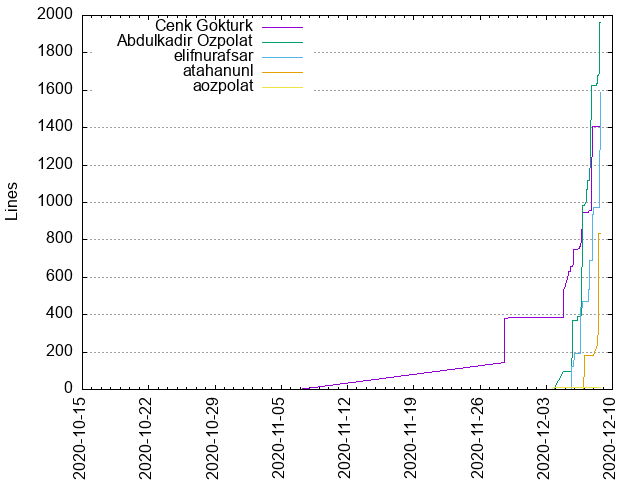
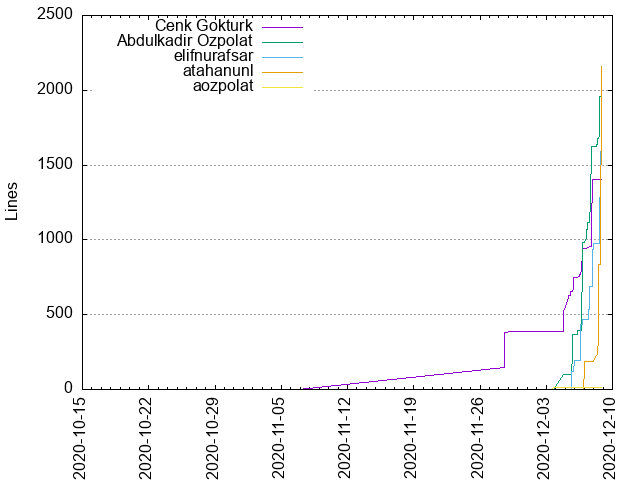
Gitstats results updated

diff --git a/Gitstats-Result/activity.html b/Gitstats-Result/activity.html
@@ -2,7 +2,7 @@
 <html>
 <head>
 	<meta charset="UTF-8">
-	<title>GitStats - Test</title>
+	<title>GitStats - Test2</title>
 	<link rel="stylesheet" href="gitstats.css" type="text/css">
 	<meta name="generator" content="GitStats 55c5c28">
 	<script type="text/javascript" src="sortable.js"></script>
@@ -22,27 +22,27 @@
 
 <h2 id="weekly_activity"><a href="#weekly_activity">Weekly activity</a></h2>
 
-<p>Last 32 weeks</p><table class="noborders"><tr><td style="text-align: center; vertical-align: bottom">0<div style="display: block; background-color: red; width: 20px; height: 1px"></div></td><td style="text-align: center; vertical-align: bottom">0<div style="display: block; background-color: red; width: 20px; height: 1px"></div></td><td style="text-align: center; vertical-align: bottom">0<div style="display: block; background-color: red; width: 20px; height: 1px"></div></td><td style="text-align: center; vertical-align: bottom">0<div style="display: block; background-color: red; width: 20px; height: 1px"></div></td><td style="text-align: center; vertical-align: bottom">0<div style="display: block; background-color: red; width: 20px; height: 1px"></div></td><td style="text-align: center; vertical-align: bottom">0<div style="display: block; background-color: red; width: 20px; height: 1px"></div></td><td style="text-align: center; vertical-align: bottom">0<div style="display: block; background-color: red; width: 20px; height: 1px"></div></td><td style="text-align: center; vertical-align: bottom">0<div style="display: block; background-color: red; width: 20px; height: 1px"></div></td><td style="text-align: center; vertical-align: bottom">0<div style="display: block; background-color: red; width: 20px; height: 1px"></div></td><td style="text-align: center; vertical-align: bottom">0<div style="display: block; background-color: red; width: 20px; height: 1px"></div></td><td style="text-align: center; vertical-align: bottom">0<div style="display: block; background-color: red; width: 20px; height: 1px"></div></td><td style="text-align: center; vertical-align: bottom">0<div style="display: block; background-color: red; width: 20px; height: 1px"></div></td><td style="text-align: center; vertical-align: bottom">0<div style="display: block; background-color: red; width: 20px; height: 1px"></div></td><td style="text-align: center; vertical-align: bottom">0<div style="display: block; background-color: red; width: 20px; height: 1px"></div></td><td style="text-align: center; vertical-align: bottom">0<div style="display: block; background-color: red; width: 20px; height: 1px"></div></td><td style="text-align: center; vertical-align: bottom">0<div style="display: block; background-color: red; width: 20px; height: 1px"></div></td><td style="text-align: center; vertical-align: bottom">0<div style="display: block; background-color: red; width: 20px; height: 1px"></div></td><td style="text-align: center; vertical-align: bottom">0<div style="display: block; background-color: red; width: 20px; height: 1px"></div></td><td style="text-align: center; vertical-align: bottom">0<div style="display: block; background-color: red; width: 20px; height: 1px"></div></td><td style="text-align: center; vertical-align: bottom">0<div style="display: block; background-color: red; width: 20px; height: 1px"></div></td><td style="text-align: center; vertical-align: bottom">0<div style="display: block; background-color: red; width: 20px; height: 1px"></div></td><td style="text-align: center; vertical-align: bottom">0<div style="display: block; background-color: red; width: 20px; height: 1px"></div></td><td style="text-align: center; vertical-align: bottom">0<div style="display: block; background-color: red; width: 20px; height: 1px"></div></td><td style="text-align: center; vertical-align: bottom">1<div style="display: block; background-color: red; width: 20px; height: 2px"></div></td><td style="text-align: center; vertical-align: bottom">2<div style="display: block; background-color: red; width: 20px; height: 5px"></div></td><td style="text-align: center; vertical-align: bottom">0<div style="display: block; background-color: red; width: 20px; height: 1px"></div></td><td style="text-align: center; vertical-align: bottom">1<div style="display: block; background-color: red; width: 20px; height: 2px"></div></td><td style="text-align: center; vertical-align: bottom">0<div style="display: block; background-color: red; width: 20px; height: 1px"></div></td><td style="text-align: center; vertical-align: bottom">0<div style="display: block; background-color: red; width: 20px; height: 1px"></div></td><td style="text-align: center; vertical-align: bottom">5<div style="display: block; background-color: red; width: 20px; height: 12px"></div></td><td style="text-align: center; vertical-align: bottom">69<div style="display: block; background-color: red; width: 20px; height: 172px"></div></td><td style="text-align: center; vertical-align: bottom">80<div style="display: block; background-color: red; width: 20px; height: 200px"></div></td></tr><tr><td>32</td><td>31</td><td>30</td><td>29</td><td>28</td><td>27</td><td>26</td><td>25</td><td>24</td><td>23</td><td>22</td><td>21</td><td>20</td><td>19</td><td>18</td><td>17</td><td>16</td><td>15</td><td>14</td><td>13</td><td>12</td><td>11</td><td>10</td><td>9</td><td>8</td><td>7</td><td>6</td><td>5</td><td>4</td><td>3</td><td>2</td><td>1</td></tr></table>
+<p>Last 32 weeks</p><table class="noborders"><tr><td style="text-align: center; vertical-align: bottom">0<div style="display: block; background-color: red; width: 20px; height: 1px"></div></td><td style="text-align: center; vertical-align: bottom">0<div style="display: block; background-color: red; width: 20px; height: 1px"></div></td><td style="text-align: center; vertical-align: bottom">0<div style="display: block; background-color: red; width: 20px; height: 1px"></div></td><td style="text-align: center; vertical-align: bottom">0<div style="display: block; background-color: red; width: 20px; height: 1px"></div></td><td style="text-align: center; vertical-align: bottom">0<div style="display: block; background-color: red; width: 20px; height: 1px"></div></td><td style="text-align: center; vertical-align: bottom">0<div style="display: block; background-color: red; width: 20px; height: 1px"></div></td><td style="text-align: center; vertical-align: bottom">0<div style="display: block; background-color: red; width: 20px; height: 1px"></div></td><td style="text-align: center; vertical-align: bottom">0<div style="display: block; background-color: red; width: 20px; height: 1px"></div></td><td style="text-align: center; vertical-align: bottom">0<div style="display: block; background-color: red; width: 20px; height: 1px"></div></td><td style="text-align: center; vertical-align: bottom">0<div style="display: block; background-color: red; width: 20px; height: 1px"></div></td><td style="text-align: center; vertical-align: bottom">0<div style="display: block; background-color: red; width: 20px; height: 1px"></div></td><td style="text-align: center; vertical-align: bottom">0<div style="display: block; background-color: red; width: 20px; height: 1px"></div></td><td style="text-align: center; vertical-align: bottom">0<div style="display: block; background-color: red; width: 20px; height: 1px"></div></td><td style="text-align: center; vertical-align: bottom">0<div style="display: block; background-color: red; width: 20px; height: 1px"></div></td><td style="text-align: center; vertical-align: bottom">0<div style="display: block; background-color: red; width: 20px; height: 1px"></div></td><td style="text-align: center; vertical-align: bottom">0<div style="display: block; background-color: red; width: 20px; height: 1px"></div></td><td style="text-align: center; vertical-align: bottom">0<div style="display: block; background-color: red; width: 20px; height: 1px"></div></td><td style="text-align: center; vertical-align: bottom">0<div style="display: block; background-color: red; width: 20px; height: 1px"></div></td><td style="text-align: center; vertical-align: bottom">0<div style="display: block; background-color: red; width: 20px; height: 1px"></div></td><td style="text-align: center; vertical-align: bottom">0<div style="display: block; background-color: red; width: 20px; height: 1px"></div></td><td style="text-align: center; vertical-align: bottom">0<div style="display: block; background-color: red; width: 20px; height: 1px"></div></td><td style="text-align: center; vertical-align: bottom">0<div style="display: block; background-color: red; width: 20px; height: 1px"></div></td><td style="text-align: center; vertical-align: bottom">0<div style="display: block; background-color: red; width: 20px; height: 1px"></div></td><td style="text-align: center; vertical-align: bottom">1<div style="display: block; background-color: red; width: 20px; height: 2px"></div></td><td style="text-align: center; vertical-align: bottom">2<div style="display: block; background-color: red; width: 20px; height: 4px"></div></td><td style="text-align: center; vertical-align: bottom">0<div style="display: block; background-color: red; width: 20px; height: 1px"></div></td><td style="text-align: center; vertical-align: bottom">1<div style="display: block; background-color: red; width: 20px; height: 2px"></div></td><td style="text-align: center; vertical-align: bottom">0<div style="display: block; background-color: red; width: 20px; height: 1px"></div></td><td style="text-align: center; vertical-align: bottom">0<div style="display: block; background-color: red; width: 20px; height: 1px"></div></td><td style="text-align: center; vertical-align: bottom">5<div style="display: block; background-color: red; width: 20px; height: 12px"></div></td><td style="text-align: center; vertical-align: bottom">69<div style="display: block; background-color: red; width: 20px; height: 170px"></div></td><td style="text-align: center; vertical-align: bottom">81<div style="display: block; background-color: red; width: 20px; height: 200px"></div></td></tr><tr><td>32</td><td>31</td><td>30</td><td>29</td><td>28</td><td>27</td><td>26</td><td>25</td><td>24</td><td>23</td><td>22</td><td>21</td><td>20</td><td>19</td><td>18</td><td>17</td><td>16</td><td>15</td><td>14</td><td>13</td><td>12</td><td>11</td><td>10</td><td>9</td><td>8</td><td>7</td><td>6</td><td>5</td><td>4</td><td>3</td><td>2</td><td>1</td></tr></table>
 <h2 id="hour_of_day"><a href="#hour_of_day">Hour of Day</a></h2>
 
 <table><tr><th>Hour</th><th>0</th><th>1</th><th>2</th><th>3</th><th>4</th><th>5</th><th>6</th><th>7</th><th>8</th><th>9</th><th>10</th><th>11</th><th>12</th><th>13</th><th>14</th><th>15</th><th>16</th><th>17</th><th>18</th><th>19</th><th>20</th><th>21</th><th>22</th><th>23</th></tr>
-<tr><th>Commits</th><td style="background-color: rgb(138, 0, 0)">2</td><td style="background-color: rgb(138, 0, 0)">2</td><td style="background-color: rgb(144, 0, 0)">3</td><td style="background-color: rgb(161, 0, 0)">6</td><td style="background-color: rgb(132, 0, 0)">1</td><td>0</td><td>0</td><td>0</td><td>0</td><td style="background-color: rgb(156, 0, 0)">5</td><td style="background-color: rgb(132, 0, 0)">1</td><td style="background-color: rgb(191, 0, 0)">11</td><td style="background-color: rgb(138, 0, 0)">2</td><td style="background-color: rgb(150, 0, 0)">4</td><td style="background-color: rgb(144, 0, 0)">3</td><td style="background-color: rgb(255, 0, 0)">22</td><td style="background-color: rgb(179, 0, 0)">9</td><td style="background-color: rgb(214, 0, 0)">15</td><td style="background-color: rgb(191, 0, 0)">11</td><td style="background-color: rgb(156, 0, 0)">5</td><td style="background-color: rgb(196, 0, 0)">12</td><td style="background-color: rgb(214, 0, 0)">15</td><td style="background-color: rgb(196, 0, 0)">12</td><td style="background-color: rgb(225, 0, 0)">17</td></tr>
-<tr><th>%</th><td style="background-color: rgb(138, 0, 0)">1.27</td><td style="background-color: rgb(138, 0, 0)">1.27</td><td style="background-color: rgb(144, 0, 0)">1.90</td><td style="background-color: rgb(161, 0, 0)">3.80</td><td style="background-color: rgb(132, 0, 0)">0.63</td><td>0.00</td><td>0.00</td><td>0.00</td><td>0.00</td><td style="background-color: rgb(156, 0, 0)">3.16</td><td style="background-color: rgb(132, 0, 0)">0.63</td><td style="background-color: rgb(191, 0, 0)">6.96</td><td style="background-color: rgb(138, 0, 0)">1.27</td><td style="background-color: rgb(150, 0, 0)">2.53</td><td style="background-color: rgb(144, 0, 0)">1.90</td><td style="background-color: rgb(255, 0, 0)">13.92</td><td style="background-color: rgb(179, 0, 0)">5.70</td><td style="background-color: rgb(214, 0, 0)">9.49</td><td style="background-color: rgb(191, 0, 0)">6.96</td><td style="background-color: rgb(156, 0, 0)">3.16</td><td style="background-color: rgb(196, 0, 0)">7.59</td><td style="background-color: rgb(214, 0, 0)">9.49</td><td style="background-color: rgb(196, 0, 0)">7.59</td><td style="background-color: rgb(225, 0, 0)">10.76</td></tr></table><img src="hour_of_day.png" alt="Hour of Day">
+<tr><th>Commits</th><td style="background-color: rgb(138, 0, 0)">2</td><td style="background-color: rgb(138, 0, 0)">2</td><td style="background-color: rgb(144, 0, 0)">3</td><td style="background-color: rgb(161, 0, 0)">6</td><td style="background-color: rgb(132, 0, 0)">1</td><td>0</td><td>0</td><td>0</td><td>0</td><td style="background-color: rgb(156, 0, 0)">5</td><td style="background-color: rgb(132, 0, 0)">1</td><td style="background-color: rgb(191, 0, 0)">11</td><td style="background-color: rgb(138, 0, 0)">2</td><td style="background-color: rgb(150, 0, 0)">4</td><td style="background-color: rgb(144, 0, 0)">3</td><td style="background-color: rgb(255, 0, 0)">22</td><td style="background-color: rgb(179, 0, 0)">9</td><td style="background-color: rgb(214, 0, 0)">15</td><td style="background-color: rgb(191, 0, 0)">11</td><td style="background-color: rgb(156, 0, 0)">5</td><td style="background-color: rgb(196, 0, 0)">12</td><td style="background-color: rgb(214, 0, 0)">15</td><td style="background-color: rgb(202, 0, 0)">13</td><td style="background-color: rgb(225, 0, 0)">17</td></tr>
+<tr><th>%</th><td style="background-color: rgb(138, 0, 0)">1.26</td><td style="background-color: rgb(138, 0, 0)">1.26</td><td style="background-color: rgb(144, 0, 0)">1.89</td><td style="background-color: rgb(161, 0, 0)">3.77</td><td style="background-color: rgb(132, 0, 0)">0.63</td><td>0.00</td><td>0.00</td><td>0.00</td><td>0.00</td><td style="background-color: rgb(156, 0, 0)">3.14</td><td style="background-color: rgb(132, 0, 0)">0.63</td><td style="background-color: rgb(191, 0, 0)">6.92</td><td style="background-color: rgb(138, 0, 0)">1.26</td><td style="background-color: rgb(150, 0, 0)">2.52</td><td style="background-color: rgb(144, 0, 0)">1.89</td><td style="background-color: rgb(255, 0, 0)">13.84</td><td style="background-color: rgb(179, 0, 0)">5.66</td><td style="background-color: rgb(214, 0, 0)">9.43</td><td style="background-color: rgb(191, 0, 0)">6.92</td><td style="background-color: rgb(156, 0, 0)">3.14</td><td style="background-color: rgb(196, 0, 0)">7.55</td><td style="background-color: rgb(214, 0, 0)">9.43</td><td style="background-color: rgb(202, 0, 0)">8.18</td><td style="background-color: rgb(225, 0, 0)">10.69</td></tr></table><img src="hour_of_day.png" alt="Hour of Day">
 <h2 id="day_of_week"><a href="#day_of_week">Day of Week</a></h2>
 
-<div class="vtable"><table><tr><th>Day</th><th>Total (%)</th></tr><tr><th>Mon</th><td>46 (29.11%)</td></tr><tr><th>Tue</th><td>36 (22.78%)</td></tr><tr><th>Wed</th><td>0</td></tr><tr><th>Thu</th><td>9 (5.70%)</td></tr><tr><th>Fri</th><td>6 (3.80%)</td></tr><tr><th>Sat</th><td>18 (11.39%)</td></tr><tr><th>Sun</th><td>43 (27.22%)</td></tr></table></div><img src="day_of_week.png" alt="Day of Week">
+<div class="vtable"><table><tr><th>Day</th><th>Total (%)</th></tr><tr><th>Mon</th><td>46 (28.93%)</td></tr><tr><th>Tue</th><td>37 (23.27%)</td></tr><tr><th>Wed</th><td>0</td></tr><tr><th>Thu</th><td>9 (5.66%)</td></tr><tr><th>Fri</th><td>6 (3.77%)</td></tr><tr><th>Sat</th><td>18 (11.32%)</td></tr><tr><th>Sun</th><td>43 (27.04%)</td></tr></table></div><img src="day_of_week.png" alt="Day of Week">
 <h2 id="hour_of_week"><a href="#hour_of_week">Hour of Week</a></h2>
 
-<table><tr><th>Weekday</th><th>0</th><th>1</th><th>2</th><th>3</th><th>4</th><th>5</th><th>6</th><th>7</th><th>8</th><th>9</th><th>10</th><th>11</th><th>12</th><th>13</th><th>14</th><th>15</th><th>16</th><th>17</th><th>18</th><th>19</th><th>20</th><th>21</th><th>22</th><th>23</th></tr><tr><th>Mon</th><td></td><td></td><td style="background-color: rgb(136, 0, 0)">1</td><td style="background-color: rgb(154, 0, 0)">3</td><td style="background-color: rgb(136, 0, 0)">1</td><td></td><td></td><td></td><td></td><td style="background-color: rgb(172, 0, 0)">5</td><td></td><td style="background-color: rgb(136, 0, 0)">1</td><td style="background-color: rgb(145, 0, 0)">2</td><td style="background-color: rgb(163, 0, 0)">4</td><td></td><td style="background-color: rgb(200, 0, 0)">8</td><td></td><td></td><td></td><td></td><td style="background-color: rgb(172, 0, 0)">5</td><td style="background-color: rgb(145, 0, 0)">2</td><td style="background-color: rgb(200, 0, 0)">8</td><td style="background-color: rgb(181, 0, 0)">6</td></tr><tr><th>Tue</th><td style="background-color: rgb(136, 0, 0)">1</td><td style="background-color: rgb(145, 0, 0)">2</td><td style="background-color: rgb(145, 0, 0)">2</td><td style="background-color: rgb(145, 0, 0)">2</td><td></td><td></td><td></td><td></td><td></td><td></td><td></td><td style="background-color: rgb(154, 0, 0)">3</td><td></td><td></td><td style="background-color: rgb(154, 0, 0)">3</td><td style="background-color: rgb(255, 0, 0)">14</td><td></td><td style="background-color: rgb(200, 0, 0)">8</td><td></td><td style="background-color: rgb(136, 0, 0)">1</td><td></td><td></td><td></td><td></td></tr><tr><th>Wed</th><td></td><td></td><td></td><td></td><td></td><td></td><td></td><td></td><td></td><td></td><td></td><td></td><td></td><td></td><td></td><td></td><td></td><td></td><td></td><td></td><td></td><td></td><td></td><td></td></tr><tr><th>Thu</th><td></td><td></td><td></td><td></td><td></td><td></td><td></td><td></td><td></td><td></td><td></td><td></td><td></td><td></td><td></td><td></td><td></td><td></td><td style="background-color: rgb(191, 0, 0)">7</td><td></td><td style="background-color: rgb(145, 0, 0)">2</td><td></td><td></td><td></td></tr><tr><th>Fri</th><td></td><td></td><td></td><td></td><td></td><td></td><td></td><td></td><td></td><td></td><td></td><td></td><td></td><td></td><td></td><td></td><td></td><td></td><td></td><td></td><td></td><td style="background-color: rgb(136, 0, 0)">1</td><td style="background-color: rgb(136, 0, 0)">1</td><td style="background-color: rgb(163, 0, 0)">4</td></tr><tr><th>Sat</th><td style="background-color: rgb(136, 0, 0)">1</td><td></td><td></td><td></td><td></td><td></td><td></td><td></td><td></td><td></td><td style="background-color: rgb(136, 0, 0)">1</td><td style="background-color: rgb(145, 0, 0)">2</td><td></td><td></td><td></td><td></td><td style="background-color: rgb(154, 0, 0)">3</td><td style="background-color: rgb(154, 0, 0)">3</td><td></td><td style="background-color: rgb(145, 0, 0)">2</td><td></td><td style="background-color: rgb(154, 0, 0)">3</td><td></td><td style="background-color: rgb(154, 0, 0)">3</td></tr><tr><th>Sun</th><td></td><td></td><td></td><td style="background-color: rgb(136, 0, 0)">1</td><td></td><td></td><td></td><td></td><td></td><td></td><td></td><td style="background-color: rgb(172, 0, 0)">5</td><td></td><td></td><td></td><td></td><td style="background-color: rgb(181, 0, 0)">6</td><td style="background-color: rgb(163, 0, 0)">4</td><td style="background-color: rgb(163, 0, 0)">4</td><td style="background-color: rgb(145, 0, 0)">2</td><td style="background-color: rgb(172, 0, 0)">5</td><td style="background-color: rgb(209, 0, 0)">9</td><td style="background-color: rgb(154, 0, 0)">3</td><td style="background-color: rgb(163, 0, 0)">4</td></tr></table>
+<table><tr><th>Weekday</th><th>0</th><th>1</th><th>2</th><th>3</th><th>4</th><th>5</th><th>6</th><th>7</th><th>8</th><th>9</th><th>10</th><th>11</th><th>12</th><th>13</th><th>14</th><th>15</th><th>16</th><th>17</th><th>18</th><th>19</th><th>20</th><th>21</th><th>22</th><th>23</th></tr><tr><th>Mon</th><td></td><td></td><td style="background-color: rgb(136, 0, 0)">1</td><td style="background-color: rgb(154, 0, 0)">3</td><td style="background-color: rgb(136, 0, 0)">1</td><td></td><td></td><td></td><td></td><td style="background-color: rgb(172, 0, 0)">5</td><td></td><td style="background-color: rgb(136, 0, 0)">1</td><td style="background-color: rgb(145, 0, 0)">2</td><td style="background-color: rgb(163, 0, 0)">4</td><td></td><td style="background-color: rgb(200, 0, 0)">8</td><td></td><td></td><td></td><td></td><td style="background-color: rgb(172, 0, 0)">5</td><td style="background-color: rgb(145, 0, 0)">2</td><td style="background-color: rgb(200, 0, 0)">8</td><td style="background-color: rgb(181, 0, 0)">6</td></tr><tr><th>Tue</th><td style="background-color: rgb(136, 0, 0)">1</td><td style="background-color: rgb(145, 0, 0)">2</td><td style="background-color: rgb(145, 0, 0)">2</td><td style="background-color: rgb(145, 0, 0)">2</td><td></td><td></td><td></td><td></td><td></td><td></td><td></td><td style="background-color: rgb(154, 0, 0)">3</td><td></td><td></td><td style="background-color: rgb(154, 0, 0)">3</td><td style="background-color: rgb(255, 0, 0)">14</td><td></td><td style="background-color: rgb(200, 0, 0)">8</td><td></td><td style="background-color: rgb(136, 0, 0)">1</td><td></td><td></td><td style="background-color: rgb(136, 0, 0)">1</td><td></td></tr><tr><th>Wed</th><td></td><td></td><td></td><td></td><td></td><td></td><td></td><td></td><td></td><td></td><td></td><td></td><td></td><td></td><td></td><td></td><td></td><td></td><td></td><td></td><td></td><td></td><td></td><td></td></tr><tr><th>Thu</th><td></td><td></td><td></td><td></td><td></td><td></td><td></td><td></td><td></td><td></td><td></td><td></td><td></td><td></td><td></td><td></td><td></td><td></td><td style="background-color: rgb(191, 0, 0)">7</td><td></td><td style="background-color: rgb(145, 0, 0)">2</td><td></td><td></td><td></td></tr><tr><th>Fri</th><td></td><td></td><td></td><td></td><td></td><td></td><td></td><td></td><td></td><td></td><td></td><td></td><td></td><td></td><td></td><td></td><td></td><td></td><td></td><td></td><td></td><td style="background-color: rgb(136, 0, 0)">1</td><td style="background-color: rgb(136, 0, 0)">1</td><td style="background-color: rgb(163, 0, 0)">4</td></tr><tr><th>Sat</th><td style="background-color: rgb(136, 0, 0)">1</td><td></td><td></td><td></td><td></td><td></td><td></td><td></td><td></td><td></td><td style="background-color: rgb(136, 0, 0)">1</td><td style="background-color: rgb(145, 0, 0)">2</td><td></td><td></td><td></td><td></td><td style="background-color: rgb(154, 0, 0)">3</td><td style="background-color: rgb(154, 0, 0)">3</td><td></td><td style="background-color: rgb(145, 0, 0)">2</td><td></td><td style="background-color: rgb(154, 0, 0)">3</td><td></td><td style="background-color: rgb(154, 0, 0)">3</td></tr><tr><th>Sun</th><td></td><td></td><td></td><td style="background-color: rgb(136, 0, 0)">1</td><td></td><td></td><td></td><td></td><td></td><td></td><td></td><td style="background-color: rgb(172, 0, 0)">5</td><td></td><td></td><td></td><td></td><td style="background-color: rgb(181, 0, 0)">6</td><td style="background-color: rgb(163, 0, 0)">4</td><td style="background-color: rgb(163, 0, 0)">4</td><td style="background-color: rgb(145, 0, 0)">2</td><td style="background-color: rgb(172, 0, 0)">5</td><td style="background-color: rgb(209, 0, 0)">9</td><td style="background-color: rgb(154, 0, 0)">3</td><td style="background-color: rgb(163, 0, 0)">4</td></tr></table>
 <h2 id="month_of_year"><a href="#month_of_year">Month of Year</a></h2>
 
-<div class="vtable"><table><tr><th>Month</th><th>Commits (%)</th></tr><tr><td>1</td><td>0 (0.00 %)</td></tr><tr><td>2</td><td>0 (0.00 %)</td></tr><tr><td>3</td><td>0 (0.00 %)</td></tr><tr><td>4</td><td>0 (0.00 %)</td></tr><tr><td>5</td><td>0 (0.00 %)</td></tr><tr><td>6</td><td>0 (0.00 %)</td></tr><tr><td>7</td><td>0 (0.00 %)</td></tr><tr><td>8</td><td>0 (0.00 %)</td></tr><tr><td>9</td><td>0 (0.00 %)</td></tr><tr><td>10</td><td>3 (1.90 %)</td></tr><tr><td>11</td><td>6 (3.80 %)</td></tr><tr><td>12</td><td>149 (94.30 %)</td></tr></table></div><img src="month_of_year.png" alt="Month of Year">
+<div class="vtable"><table><tr><th>Month</th><th>Commits (%)</th></tr><tr><td>1</td><td>0 (0.00 %)</td></tr><tr><td>2</td><td>0 (0.00 %)</td></tr><tr><td>3</td><td>0 (0.00 %)</td></tr><tr><td>4</td><td>0 (0.00 %)</td></tr><tr><td>5</td><td>0 (0.00 %)</td></tr><tr><td>6</td><td>0 (0.00 %)</td></tr><tr><td>7</td><td>0 (0.00 %)</td></tr><tr><td>8</td><td>0 (0.00 %)</td></tr><tr><td>9</td><td>0 (0.00 %)</td></tr><tr><td>10</td><td>3 (1.89 %)</td></tr><tr><td>11</td><td>6 (3.77 %)</td></tr><tr><td>12</td><td>150 (94.34 %)</td></tr></table></div><img src="month_of_year.png" alt="Month of Year">
 <h2 id="commits_by_year/month"><a href="#commits_by_year/month">Commits by year/month</a></h2>
 
-<div class="vtable"><table><tr><th>Month</th><th>Commits</th><th>Lines added</th><th>Lines removed</th></tr><tr><td>2020-12</td><td>149</td><td>5379</td><td>2545</td></tr><tr><td>2020-11</td><td>6</td><td>386</td><td>7</td></tr><tr><td>2020-10</td><td>3</td><td>0</td><td>0</td></tr></table></div><img src="commits_by_year_month.png" alt="Commits by year/month">
+<div class="vtable"><table><tr><th>Month</th><th>Commits</th><th>Lines added</th><th>Lines removed</th></tr><tr><td>2020-12</td><td>150</td><td>6703</td><td>2545</td></tr><tr><td>2020-11</td><td>6</td><td>386</td><td>7</td></tr><tr><td>2020-10</td><td>3</td><td>0</td><td>0</td></tr></table></div><img src="commits_by_year_month.png" alt="Commits by year/month">
 <h2 id="commits_by_year"><a href="#commits_by_year">Commits by Year</a></h2>
 
-<div class="vtable"><table><tr><th>Year</th><th>Commits (% of all)</th><th>Lines added</th><th>Lines removed</th></tr><tr><td>2020</td><td>158 (100.00%)</td><td>5765</td><td>2552</td></tr></table></div><img src="commits_by_year.png" alt="Commits by Year">
+<div class="vtable"><table><tr><th>Year</th><th>Commits (% of all)</th><th>Lines added</th><th>Lines removed</th></tr><tr><td>2020</td><td>159 (100.00%)</td><td>7089</td><td>2552</td></tr></table></div><img src="commits_by_year.png" alt="Commits by Year">
 <h2 id="commits_by_timezone"><a href="#commits_by_timezone">Commits by Timezone</a></h2>
 
-<table><tr><th>Timezone</th><th>Commits</th></tr><tr><th>+0300</th><td style="background-color: rgb(255, 0, 0)">158</td></tr></table></body></html>
+<table><tr><th>Timezone</th><th>Commits</th></tr><tr><th>+0300</th><td style="background-color: rgb(255, 0, 0)">159</td></tr></table></body></html>

diff --git a/Gitstats-Result/authors.html b/Gitstats-Result/authors.html
@@ -2,7 +2,7 @@
 <html>
 <head>
 	<meta charset="UTF-8">
-	<title>GitStats - Test</title>
+	<title>GitStats - Test2</title>
 	<link rel="stylesheet" href="gitstats.css" type="text/css">
 	<meta name="generator" content="GitStats 55c5c28">
 	<script type="text/javascript" src="sortable.js"></script>
@@ -22,7 +22,7 @@
 
 <h2 id="list_of_authors"><a href="#list_of_authors">List of Authors</a></h2>
 
-<table class="authors sortable" id="authors"><tr><th>Author</th><th>Commits (%)</th><th>+ lines</th><th>- lines</th><th>First commit</th><th>Last commit</th><th class="unsortable">Age</th><th>Active days</th><th># by commits</th></tr><tr><td>Cenk Gokturk</td><td>60 (37.97%)</td><td>1406</td><td>407</td><td>2020-10-15</td><td>2020-12-08</td><td>53 days, 4:40:39</td><td>11</td><td>1</td></tr><tr><td>Abdulkadir Ozpolat</td><td>44 (27.85%)</td><td>1960</td><td>957</td><td>2020-12-04</td><td>2020-12-08</td><td>3 days, 18:52:47</td><td>5</td><td>2</td></tr><tr><td>elifnurafsar</td><td>30 (18.99%)</td><td>1588</td><td>343</td><td>2020-12-05</td><td>2020-12-08</td><td>3 days, 0:21:19</td><td>4</td><td>3</td></tr><tr><td>atahanunl</td><td>21 (13.29%)</td><td>834</td><td>857</td><td>2020-12-07</td><td>2020-12-08</td><td>1 day, 13:08:37</td><td>2</td><td>4</td></tr><tr><td>aozpolat</td><td>3 (1.90%)</td><td>13</td><td>0</td><td>2020-12-03</td><td>2020-12-06</td><td>2 days, 14:28:19</td><td>2</td><td>5</td></tr></table>
+<table class="authors sortable" id="authors"><tr><th>Author</th><th>Commits (%)</th><th>+ lines</th><th>- lines</th><th>First commit</th><th>Last commit</th><th class="unsortable">Age</th><th>Active days</th><th># by commits</th></tr><tr><td>Cenk Gokturk</td><td>60 (37.74%)</td><td>1406</td><td>407</td><td>2020-10-15</td><td>2020-12-08</td><td>53 days, 4:40:39</td><td>11</td><td>1</td></tr><tr><td>Abdulkadir Ozpolat</td><td>44 (27.67%)</td><td>1960</td><td>957</td><td>2020-12-04</td><td>2020-12-08</td><td>3 days, 18:52:47</td><td>5</td><td>2</td></tr><tr><td>elifnurafsar</td><td>30 (18.87%)</td><td>1588</td><td>343</td><td>2020-12-05</td><td>2020-12-08</td><td>3 days, 0:21:19</td><td>4</td><td>3</td></tr><tr><td>atahanunl</td><td>22 (13.84%)</td><td>2158</td><td>857</td><td>2020-12-07</td><td>2020-12-08</td><td>1 day, 19:41:30</td><td>2</td><td>4</td></tr><tr><td>aozpolat</td><td>3 (1.89%)</td><td>13</td><td>0</td><td>2020-12-03</td><td>2020-12-06</td><td>2 days, 14:28:19</td><td>2</td><td>5</td></tr></table>
 <h2 id="cumulated_added_lines_of_code_per_author"><a href="#cumulated_added_lines_of_code_per_author">Cumulated Added Lines of Code per Author</a></h2>
 
 <img src="lines_of_code_by_author.png" alt="Lines of code per Author">
@@ -31,10 +31,10 @@
 <img src="commits_by_author.png" alt="Commits per Author">
 <h2 id="author_of_month"><a href="#author_of_month">Author of Month</a></h2>
 
-<table class="sortable" id="aom"><tr><th>Month</th><th>Author</th><th>Commits (%)</th><th class="unsortable">Next top 5</th><th>Number of authors</th></tr><tr><td>2020-12</td><td>Cenk Gokturk</td><td>51 (34.23% of 149)</td><td>Abdulkadir Ozpolat, elifnurafsar, atahanunl, aozpolat</td><td>5</td></tr><tr><td>2020-11</td><td>Cenk Gokturk</td><td>6 (100.00% of 6)</td><td></td><td>1</td></tr><tr><td>2020-10</td><td>Cenk Gokturk</td><td>3 (100.00% of 3)</td><td></td><td>1</td></tr></table>
+<table class="sortable" id="aom"><tr><th>Month</th><th>Author</th><th>Commits (%)</th><th class="unsortable">Next top 5</th><th>Number of authors</th></tr><tr><td>2020-12</td><td>Cenk Gokturk</td><td>51 (34.00% of 150)</td><td>Abdulkadir Ozpolat, elifnurafsar, atahanunl, aozpolat</td><td>5</td></tr><tr><td>2020-11</td><td>Cenk Gokturk</td><td>6 (100.00% of 6)</td><td></td><td>1</td></tr><tr><td>2020-10</td><td>Cenk Gokturk</td><td>3 (100.00% of 3)</td><td></td><td>1</td></tr></table>
 <h2 id="author_of_year"><a href="#author_of_year">Author of Year</a></h2>
 
-<table class="sortable" id="aoy"><tr><th>Year</th><th>Author</th><th>Commits (%)</th><th class="unsortable">Next top 5</th><th>Number of authors</th></tr><tr><td>2020</td><td>Cenk Gokturk</td><td>60 (37.97% of 158)</td><td>Abdulkadir Ozpolat, elifnurafsar, atahanunl, aozpolat</td><td>5</td></tr></table>
+<table class="sortable" id="aoy"><tr><th>Year</th><th>Author</th><th>Commits (%)</th><th class="unsortable">Next top 5</th><th>Number of authors</th></tr><tr><td>2020</td><td>Cenk Gokturk</td><td>60 (37.74% of 159)</td><td>Abdulkadir Ozpolat, elifnurafsar, atahanunl, aozpolat</td><td>5</td></tr></table>
 <h2 id="commits_by_domains"><a href="#commits_by_domains">Commits by Domains</a></h2>
 
-<div class="vtable"><table><tr><th>Domains</th><th>Total (%)</th></tr><tr><th>users.noreply.github.com</th><td>94 (59.49%)</td></tr><tr><th>gmail.com</th><td>64 (40.51%)</td></tr></table></div><img src="domains.png" alt="Commits by Domains"></body></html>
+<div class="vtable"><table><tr><th>Domains</th><th>Total (%)</th></tr><tr><th>users.noreply.github.com</th><td>95 (59.75%)</td></tr><tr><th>gmail.com</th><td>64 (40.25%)</td></tr></table></div><img src="domains.png" alt="Commits by Domains"></body></html>

diff --git a/Gitstats-Result/files.html b/Gitstats-Result/files.html
@@ -2,7 +2,7 @@
 <html>
 <head>
 	<meta charset="UTF-8">
-	<title>GitStats - Test</title>
+	<title>GitStats - Test2</title>
 	<link rel="stylesheet" href="gitstats.css" type="text/css">
 	<meta name="generator" content="GitStats 55c5c28">
 	<script type="text/javascript" src="sortable.js"></script>
@@ -20,11 +20,11 @@
 </ul>
 </div>
 <dl>
-<dt>Total files</dt><dd>40</dd><dt>Total lines</dt><dd>3213</dd><dt>Average file size</dt><dd>38016.30 bytes</dd></dl>
+<dt>Total files</dt><dd>82</dd><dt>Total lines</dt><dd>4537</dd><dt>Average file size</dt><dd>19690.33 bytes</dd></dl>
 
 <h2 id="file_count_by_date"><a href="#file_count_by_date">File count by date</a></h2>
 
 <img src="files_by_date.png" alt="Files by Date">
 <h2 id="extensions"><a href="#extensions">Extensions</a></h2>
 
-<table class="sortable" id="ext"><tr><th>Extension</th><th>Files (%)</th><th>Lines (%)</th><th>Lines/file</th></tr><tr><td></td><td>1 (2.50%)</td><td>1 (0.03%)</td><td>1</td></tr><tr><td>css</td><td>1 (2.50%)</td><td>80 (2.49%)</td><td>80</td></tr><tr><td>html</td><td>23 (57.50%)</td><td>1942 (60.44%)</td><td>84</td></tr><tr><td>md</td><td>1 (2.50%)</td><td>89 (2.77%)</td><td>89</td></tr><tr><td>pdf</td><td>8 (20.00%)</td><td>5857 (182.29%)</td><td>732</td></tr><tr><td>py</td><td>4 (10.00%)</td><td>465 (14.47%)</td><td>116</td></tr><tr><td>sql</td><td>1 (2.50%)</td><td>615 (19.14%)</td><td>615</td></tr><tr><td>txt</td><td>1 (2.50%)</td><td>21 (0.65%)</td><td>21</td></tr></table></body></html>
+<table class="sortable" id="ext"><tr><th>Extension</th><th>Files (%)</th><th>Lines (%)</th><th>Lines/file</th></tr><tr><td></td><td>1 (1.22%)</td><td>1 (0.02%)</td><td>1</td></tr><tr><td>cache</td><td>1 (1.22%)</td><td>26 (0.57%)</td><td>26</td></tr><tr><td>css</td><td>2 (2.44%)</td><td>225 (4.96%)</td><td>112</td></tr><tr><td>dat</td><td>10 (12.20%)</td><td>538 (11.86%)</td><td>53</td></tr><tr><td>gif</td><td>3 (3.66%)</td><td>6 (0.13%)</td><td>2</td></tr><tr><td>html</td><td>29 (35.37%)</td><td>2126 (46.86%)</td><td>73</td></tr><tr><td>js</td><td>1 (1.22%)</td><td>324 (7.14%)</td><td>324</td></tr><tr><td>md</td><td>1 (1.22%)</td><td>89 (1.96%)</td><td>89</td></tr><tr><td>pdf</td><td>8 (9.76%)</td><td>5857 (129.09%)</td><td>732</td></tr><tr><td>plot</td><td>10 (12.20%)</td><td>127 (2.80%)</td><td>12</td></tr><tr><td>png</td><td>10 (12.20%)</td><td>236 (5.20%)</td><td>23</td></tr><tr><td>py</td><td>4 (4.88%)</td><td>465 (10.25%)</td><td>116</td></tr><tr><td>sql</td><td>1 (1.22%)</td><td>615 (13.56%)</td><td>615</td></tr><tr><td>txt</td><td>1 (1.22%)</td><td>21 (0.46%)</td><td>21</td></tr></table></body></html>

diff --git a/Gitstats-Result/index.html b/Gitstats-Result/index.html
@@ -2,13 +2,13 @@
 <html>
 <head>
 	<meta charset="UTF-8">
-	<title>GitStats - Test</title>
+	<title>GitStats - Test2</title>
 	<link rel="stylesheet" href="gitstats.css" type="text/css">
 	<meta name="generator" content="GitStats 55c5c28">
 	<script type="text/javascript" src="sortable.js"></script>
 </head>
 <body>
-<h1>GitStats - Test</h1>
+<h1>GitStats - Test2</h1>
 <div class="nav">
 <ul>
 <li><a href="index.html">General</a></li>
@@ -19,5 +19,5 @@
 <li><a href="tags.html">Tags</a></li>
 </ul>
 </div>
-<dl><dt>Project name</dt><dd>Test</dd><dt>Generated</dt><dd>2020-12-08 22:00:13 (in 1 seconds)</dd><dt>Generator</dt><dd><a href="http://gitstats.sourceforge.net/">GitStats</a> (version 55c5c28), git version 2.24.3 (Apple Git-128), gnuplot 5.4 patchlevel 0</dd><dt>Report Period</dt><dd>2020-10-15 20:00:56 to 2020-12-08 19:46:22</dd><dt>Age</dt><dd>55 days, 11 active days (20.00%)</dd><dt>Total Files</dt><dd>40</dd><dt>Total Lines of Code</dt><dd>3213 (5765 added, 2552 removed)</dd><dt>Total Commits</dt><dd>158 (average 14.4 commits per active day, 2.9 per all days)</dd><dt>Authors</dt><dd>5 (average 31.6 commits per author)</dd></dl></body>
+<dl><dt>Project name</dt><dd>Test2</dd><dt>Generated</dt><dd>2020-12-08 22:25:56 (in 0 seconds)</dd><dt>Generator</dt><dd><a href="http://gitstats.sourceforge.net/">GitStats</a> (version 55c5c28), git version 2.24.3 (Apple Git-128), gnuplot 5.4 patchlevel 0</dd><dt>Report Period</dt><dd>2020-10-15 20:00:56 to 2020-12-08 22:06:10</dd><dt>Age</dt><dd>55 days, 11 active days (20.00%)</dd><dt>Total Files</dt><dd>82</dd><dt>Total Lines of Code</dt><dd>4537 (7089 added, 2552 removed)</dd><dt>Total Commits</dt><dd>159 (average 14.5 commits per active day, 2.9 per all days)</dd><dt>Authors</dt><dd>5 (average 31.8 commits per author)</dd></dl></body>
 </html>

diff --git a/Gitstats-Result/lines.html b/Gitstats-Result/lines.html
@@ -2,7 +2,7 @@
 <html>
 <head>
 	<meta charset="UTF-8">
-	<title>GitStats - Test</title>
+	<title>GitStats - Test2</title>
 	<link rel="stylesheet" href="gitstats.css" type="text/css">
 	<meta name="generator" content="GitStats 55c5c28">
 	<script type="text/javascript" src="sortable.js"></script>
@@ -20,7 +20,7 @@
 </ul>
 </div>
 <dl>
-<dt>Total lines</dt><dd>3213</dd></dl>
+<dt>Total lines</dt><dd>4537</dd></dl>
 
 <h2 id="lines_of_code"><a href="#lines_of_code">Lines of Code</a></h2>
 

diff --git a/Gitstats-Result/tags.html b/Gitstats-Result/tags.html
@@ -2,7 +2,7 @@
 <html>
 <head>
 	<meta charset="UTF-8">
-	<title>GitStats - Test</title>
+	<title>GitStats - Test2</title>
 	<link rel="stylesheet" href="gitstats.css" type="text/css">
 	<meta name="generator" content="GitStats 55c5c28">
 	<script type="text/javascript" src="sortable.js"></script>
